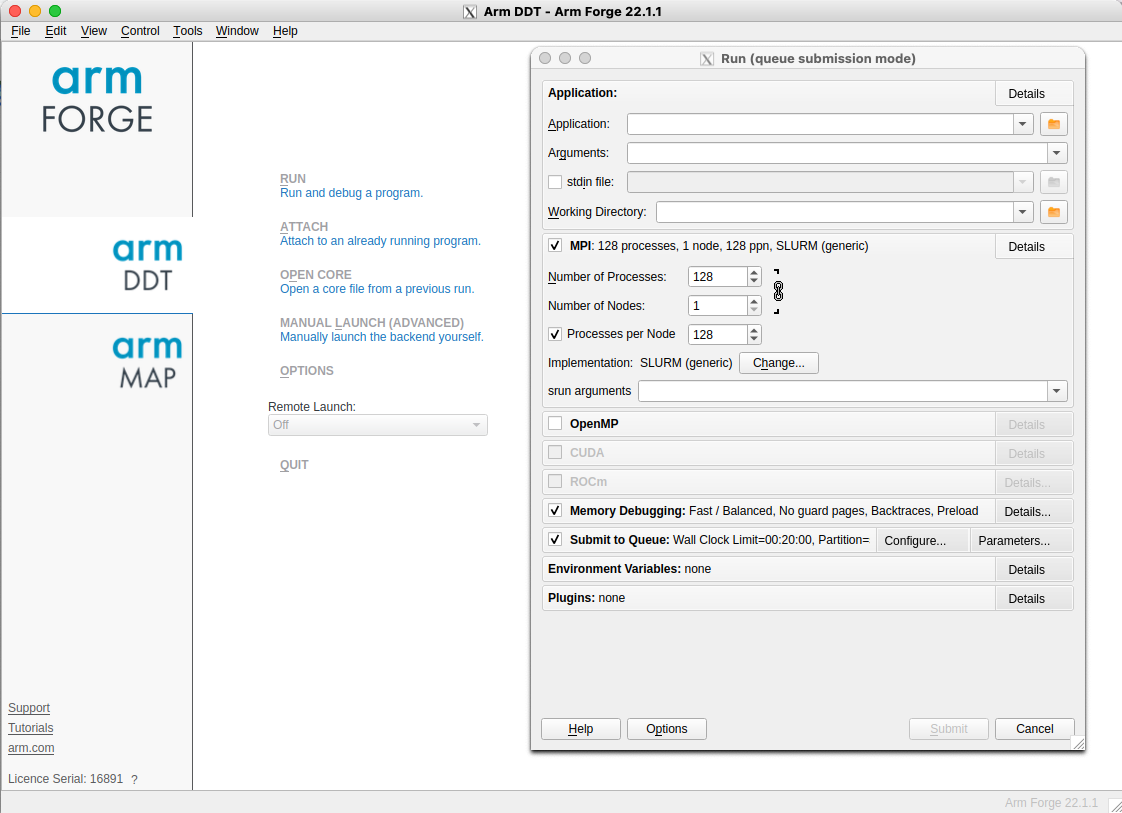
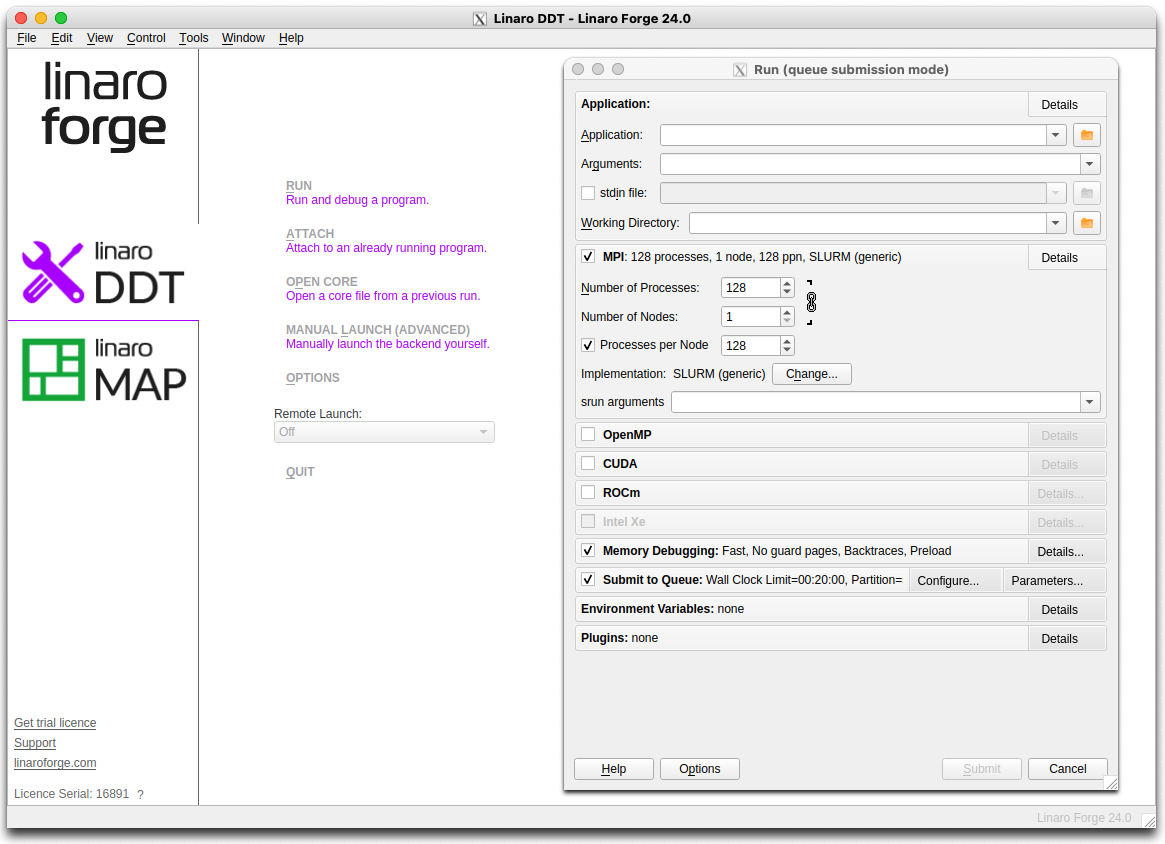
Updated Forge documentation to 24.0.

Changed region(s): [[0.0, 0.0, 1.0, 1.0], [0.2184, 0.2153, 0.4367, 0.5228], [0.2496, 0.5535, 0.2807, 0.5843]]

diff --git a/docs/data-tools/forge.md b/docs/data-tools/forge.md
@@ -1,34 +1,23 @@
-## Arm Forge
+## Linaro Forge
 
+
+[Linaro Forge](https://www.linaroforge.com/) provides debugging and profiling tools
+for MPI parallel applications, and OpenMP or pthreads multi-threaded applications
+(and also hydrid MPI/OpenMP). Forge DDT is the debugger and MAP is the profiler.
+
+ARCHER2 has a license for up to 16 nodes (2048 cores) shared between all users at
+any one time.
 
 !!! note
-    What were Arm Forge products (DDT and MAP) were acquired by Linaro in 2023.
-    We may continue to refer to "Arm Forge" to prevent confusion,
-    particularly in the context of module files.
-    However, relevant links are now to the
-    [Linaro web site](https://www.linaroforge.com/)
+    Cores are counted by the license, not MPI processes, threads, or any other software entity.
 
+There are two ways of running the Forge user interface. If you have a good internet
+connection to ARCHER2, the GUI can be run on the front-end (with an X-connection).
+Alternatively, one can download a copy of the Forge remote client to your laptop or desktop,
+and run it locally. The remote client should be used if at all possible.
 
-[Linaro Forge](https://www.linaroforge.com/)
-provides debugging and profiling tools for MPI parallel applications, and
-OpenMP or pthreads multi-threaded applications (and also hydrid MPI/OpenMP).
-The debugger and profiler are called DDT and MAP, respectively.
-
-ARCHER2 has a license for up to 16 nodes (2048 cores) shared between
-all users at any one time. (Note, cores are counted by the license, not
-MPI processes, threads, or any other software entity.)
-
-There are two ways of running the Forge user interface. If you have a good
-internet connection to ARCHER2, the GUI can be run on the front-end (with
-an X-connection).
-Alternatively, one can download a copy of the Forge remote client to your
-laptop or desktop, and run it locally. The remote client should be used if
-at all possible.
-
-To download the remote client, see the
-[Forge developer download pages](https://www.linaroforge.com/downloadForge/).
-Version 22.1.1 is known to work at the time of writing. Connecting with
-the remote client is discussed below.
+To download the remote client, see the [Forge developer download pages](https://www.linaroforge.com/downloadForge/).
+Version 24.0 is known to work at the time of writing. Connecting with the remote client is discussed below.
 
 
 
@@ -37,43 +26,27 @@ the remote client is discussed below.
 A preliminary step is required to set up the necessary
 Forge configuration files that allow DDT and MAP to initialise its
 environment correctly so that it can, for example, interact with
-the SLURM queue system. These steps should be performed in the `/work`
+the Slurm queue system. These steps should be performed in the `/work`
 file system on ARCHER2.
 
 It is recommended that these commands are performed in the top-level work
 file system directory for the user account, i.e., `${HOME/home/work}`.
 
 ```bash
-module load arm/forge
+module load forge
 cd ${HOME/home/work}
 source ${FORGE_DIR}/config-init
 ```
 
-This will create a directory `${HOME/home/work}/.allinea` that contains the
+This will create a directory `${HOME/home/work}/.forge` that contains the
 following files.
 
 ```output
 system.config  user.config
 ```
 
+Within the `system.config` file you should find that `shared directory` is set to the equivalent of `${HOME/home/work/.forge}`.
 The directory will also store other relevant files when Forge is run.
-
-!!! warning
-    The `config-init` script will output a warning, `...failed to read system config`.
-    Please ignore: subsequent output should indicate that the new configuration
-    files have been created.
-
-Once you have created this directory, you also need to modify the `system.config` file in the directory `${HOME/home/work/.allinea}`, editing the line
-
-```bash
-shared directory = ~
-```
-
-To instead point to your `${HOME/home/work/.allinea}` directory, i.e. if you are in the `z19` project, that would be:
-
-```bash
-shared directory = /work/z19/z19/$USER/.allinea
-```
 
 ### Using DDT
 
@@ -101,9 +74,9 @@ Such a job can be submitted to the batch system in the usual way. The
 relevant command to start the executable is as follows.
 
 ```slurm
-# ... SLURM batch commands as usual ...
+# ... Slurm batch commands as usual ...
 
-module load arm/forge
+module load forge
 
 export OMP_NUM_THREADS=16
 export OMP_PLACES=cores
@@ -117,7 +90,7 @@ ddt --verbose --offline --mpi=slurm --np 8 \
 ```
 
 The parallel launch is delegated to `ddt` and the `--mpi=slurm` option
-indicates to `ddt` that the relevant queue system is SLURM
+indicates to `ddt` that the relevant queue system is Slurm
 (there is no explicit `srun`). It will also be
 necessary to state explicitly to `ddt` the number of processes
 required (here `--np 8`). For other options see, e.g., `ddt --help`.
@@ -135,7 +108,7 @@ to examine the state of execution at the point of failure.
 You can also start the client interactively (for details of remote launch, see below).
 
 ```bash
-module load arm/forge
+module load forge
 ddt
 ```
 
@@ -177,19 +150,19 @@ section and specify the relevant project budget, see the ***Account*** entry.
 The default queue template file configuration uses the short QoS with the
 standard time limit of 20 minutes. If something different is required,
 one can edit the settings. Alternatively, one can copy the `archer2.qtf` file
-(to `${HOME/home/work}/.allinea`) and make the relevant changes. This new
+(to `${HOME/home/work}/.forge`) and make the relevant changes. This new
 template file can then be specified in the dialog window.
 
 There may be a short delay while the sbatch job starts. Debugging should
-then proceed as described in the Allinea documentation.
+then proceed as described in the [Linaro Forge documentation](https://docs.linaroforge.com/24.0/html/forge/ddt/index.html).
 
 
 ### Using MAP
 
-Load the `arm/forge` module:
+Load the `forge` module:
 
 ```bash
-module load arm/forge
+module load forge
 ```
 
 #### Compilation and linking
@@ -200,7 +173,7 @@ libraries is required at link time.
 The path to the additional libraries required will depend on the programming
 environment you are using as well as the Cray programming release. Here are
 the paths for each of the compiler environments consistent with the
-Cray Programming Release (CPE) 21.04 using the default OFI as the low-level
+Cray Programming Release (CPE) 22.12 using the default OFI as the low-level
 comms protocol:
 
 - `PrgEnv-cray`: `${FORGE_DIR}/map/libs/default/cray/ofi`
@@ -224,9 +197,9 @@ comms protocol, simply replace `ofi` with `ucx` in the library path.
 Submit a batch job in the usual way, and include the lines:
 
 ```slurm
-# ... SLURM batch commands as usual ...
+# ... Slurm batch commands as usual ...
 
-module load arm/forge
+module load forge
 
 # Ensure the cpus-per-task option is propagated to srun commands
 export SRUN_CPUS_PER_TASK=$SLURM_CPUS_PER_TASK
@@ -258,7 +231,7 @@ commands on connection. A default script is provided in the location
 shown.
 
 ```output
-/work/y07/shared/utils/core/arm/forge/latest/remote-init
+/work/y07/shared/utils/core/forge/latest/remote-init
 ```
 
 Other settings can be as shown. Remember to click ***OK*** when done.
@@ -272,7 +245,7 @@ password to connect. A remote connection will allow you to debug,
 or view a profile, as discussed above.
 
 If different commands are required on connection, a copy of the
-`remote-init` script can be placed in, e.g., `${HOME/home/work}/.allinea`
+`remote-init` script can be placed in, e.g., `${HOME/home/work}/.forge`
 and edited as necessary. The full path of the new script should then be
 specified in the remote launch settings dialog box.
 Note that the script changes the directory to the `/work/` file system so

diff --git a/docs/user-guide/debug.md b/docs/user-guide/debug.md
@@ -2,7 +2,7 @@
 
 The following debugging tools are available on ARCHER2:
 
-  - [Arm Forge (DDT)](../data-tools/arm-forge.md) is an easy-to-use graphical
+  - [Linaro Forge (DDT)](../data-tools/forge.md) is an easy-to-use graphical
     interface for source-level debugging of compiled C/C++ or Fortran codes.
     It can also be used for non-interactive debugging, and there
     is also some limited support for python debugging.
@@ -27,11 +27,11 @@ The following debugging tools are available on ARCHER2:
     side-by-side to analyse differences. (Not currently described in this
     documentation.)
 
-## Arm Forge
+## Linaro Forge
 
-The Arm Forge tool (now Linaro Forge) provides the DDT parallel debugger. See:
+The Linaro Forge tool provides the DDT parallel debugger. See:
 
-- [ARCHER2 Arm Forge documentation](../data-tools/arm-forge.md)
+- [ARCHER2 Linaro Forge documentation](../data-tools/forge.md)
 
 ## gdb4hpc
 

diff --git a/docs/user-guide/profile.md b/docs/user-guide/profile.md
@@ -5,7 +5,7 @@ ARCHER2. In this section, we discuss the HPE Cray profiling tools,
 CrayPat-lite and CrayPat. We also show how to get usage data
 on currently running jobs from Slurm batch system.
 
-You can also use [the Arm Forge tool](../data-tools/arm-forge.md)
+You can also use [the Linaro Forge tool](../data-tools/forge.md)
 to profile applications on ARCHER2.
 
 If you are specifically interested in profiling IO, then you
@@ -575,11 +575,11 @@ The AMD &mu;Prof tool provides capabilities for low-level profiling on AMD proce
 
 - [AMD &mu;Prof](../data-tools/amd-uprof.md)
 
-## Arm Forge
+## Linaro Forge
 
-The Arm Forge tool also provides profiling capabilities. See:
+The Linaro Forge tool also provides profiling capabilities. See:
 
-- [ARCHER2 Arm Forge documentation](../data-tools/arm-forge.md)
+- [ARCHER2 Linaro Forge documentation](../data-tools/forge.md)
 
 ## Darshan IO profiling
 

diff --git a/docs/user-guide/gpu.md b/docs/user-guide/gpu.md
@@ -871,10 +871,6 @@ https://rocm.docs.amd.com/projects/ROCgdb/en/docs-5.2.3/index.html
 https://docs.amd.com/projects/HIP/en/docs-5.2.3/how_to_guides/debugging.html#using-rocgdb
 
 
-!!! Note
-    The license for Linaro-forge help on ARCHER2 does not include support for GPU debugging.
-
-
 ## Profiling
 
 An initial profiling capability is provided via `rocprof` which is part of the `rocm` module.
@@ -887,9 +883,6 @@ srun -n 2 --exclusive --nodes=1 --time=00:20:00 --partition=gpu --qos=gpu-exc --
 ```
 
 to profile your applicaition. More detail on the use of rocprof can be found [here](https://github.com/ROCm/rocprofiler/tree/rocm-5.2.3).
-
-!!! Note
-    The license for Linaro-forge help on ARCHER2 does not include support for GPU profiling.
 
 
 ## Performance tuning

diff --git a/docs/user-guide/sw-environment.md b/docs/user-guide/sw-environment.md
@@ -138,7 +138,7 @@ auser@uan01:~> module avail
 
 ------------------------------------ /work/y07/shared/archer2-lmod/utils/core -------------------------------------
    amd-uprof/3.6.449          darshan-util/3.3.1        imagemagick/7.1.0         reframe/4.1.0
-   arm/forge/22.1.3           epcc-reframe/0.2          ncl/6.6.2                 tcl/8.6.13
+   forge/24.0                 epcc-reframe/0.2          ncl/6.6.2                 tcl/8.6.13
    bolt/0.7                   epcc-setup-env     (L)    nco/5.0.3          (D)    tk/8.6.13
    bolt/0.8          (L,D)    gct/v6.2.20201212         nco/5.0.5                 usage-analysis/1.2
    cdo/1.9.9rc1               genmaskcpu/1.0            ncview/2.1.7              visidata/2.1

diff --git a/docs/data-tools/index.md b/docs/data-tools/index.md
@@ -7,7 +7,7 @@ The tools currently available in this section are (software that is installed or
 by third-parties rather than the ARCHER2 service are marked with *):
 
 - [AMD &mu;Prof](amd-uprof.md): Profiling tools provided by AMD
-- [Arm Forge](arm-forge.md): Provides debugging and profiling tools for MPI parallel applications, and
+- [Linaro Forge](forge.md): Provides debugging and profiling tools for MPI parallel applications, and
 OpenMP or pthreads mutli-threaded applications (and also hydrid MPI/OpenMP)
 - [Darshan](darshan.md): Lightweight IO characterisation and profiling tool
 - [Energy Counters](pm-mpi-lib.md): MPI-based library for reading energy counters

diff --git a/docs/user-guide/dev-environment.md b/docs/user-guide/dev-environment.md
@@ -58,7 +58,7 @@ The following is a list of the modules and extensions currently available:
 
   aocl: aocl/3.1, aocl/4.0
 
-  arm/forge: arm/forge/22.1.3
+  forge: forge/24.0
 
   atp: atp/3.14.16
 
